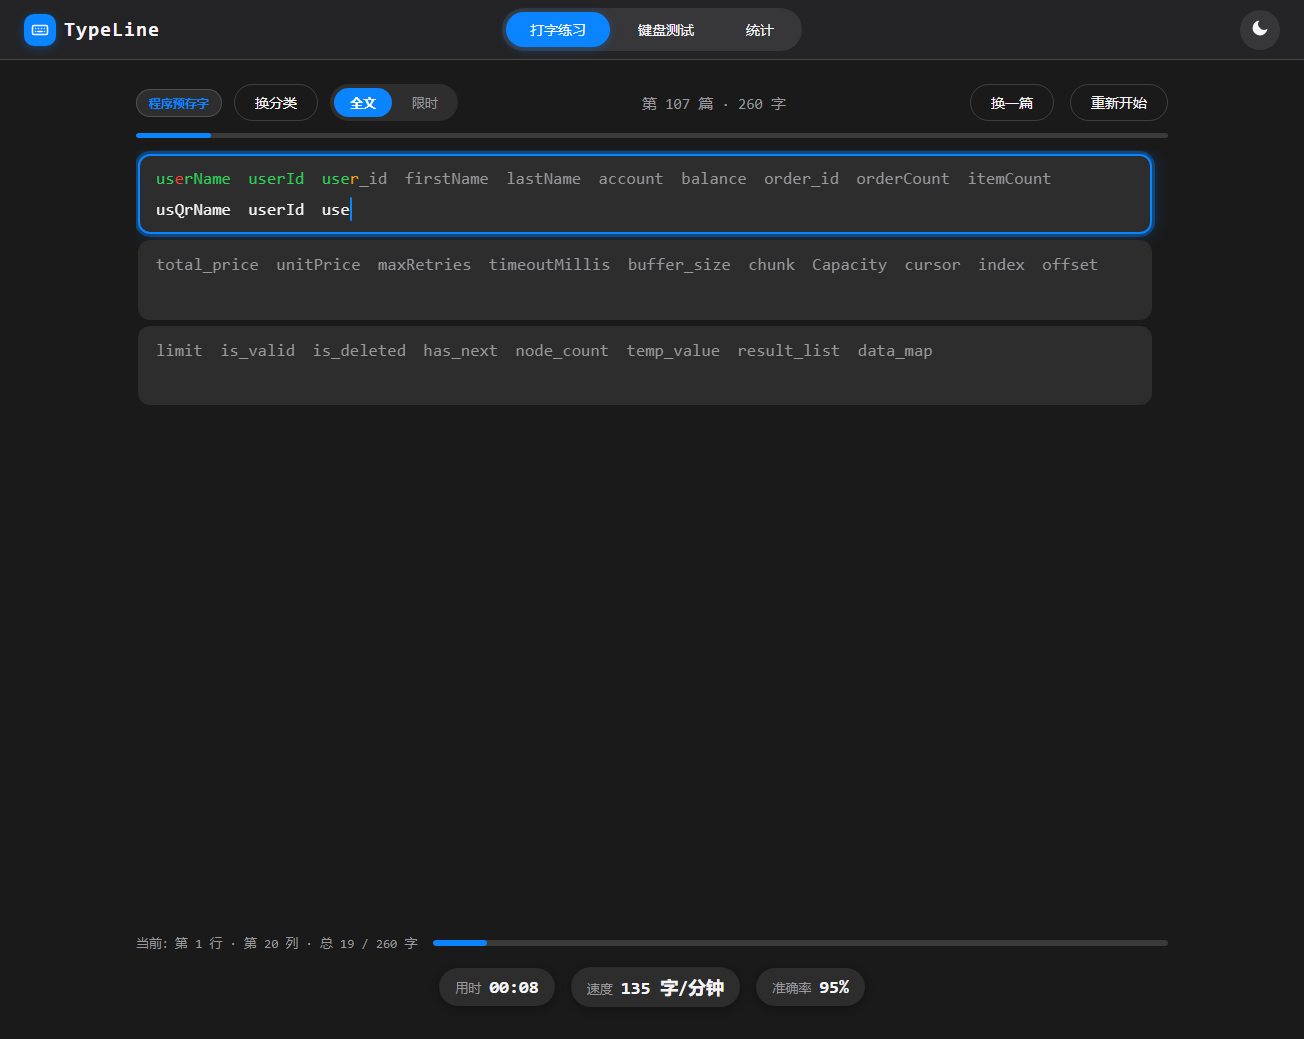
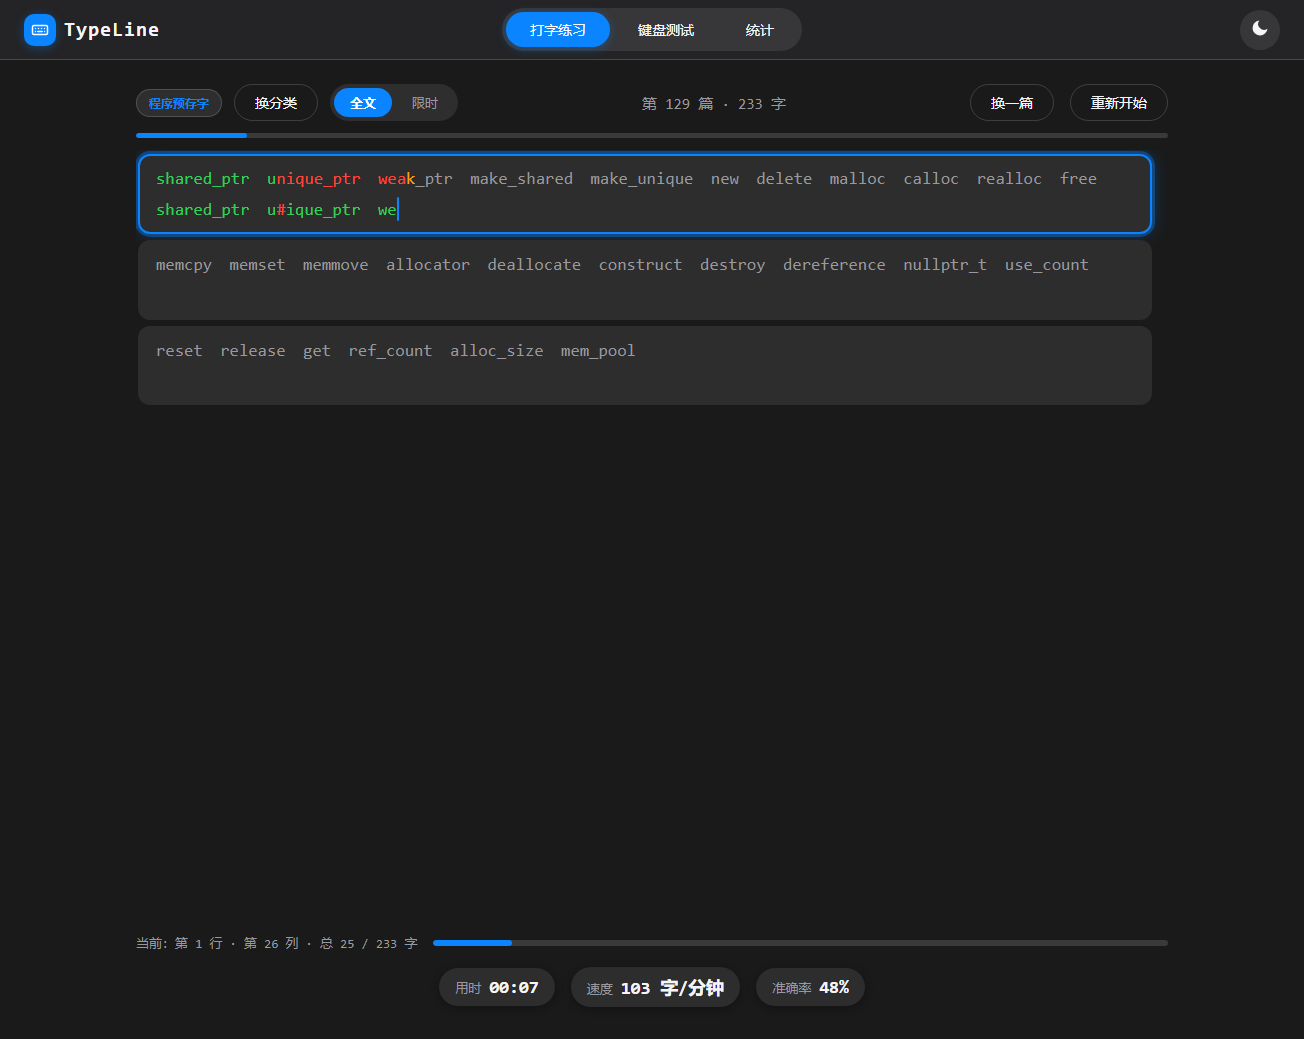
V3.2: code category input row source-position locked rendering (wrong chars red in-slot, no shift after typos)

diff --git a/assets/js/components/TypingPractice.js b/assets/js/components/TypingPractice.js
@@ -113,17 +113,19 @@
         <div class="row-input" :class="{ 'row-input-measured': profile.slot === 'measured' }">
           <span v-if="ri === activeRowIndex && !done" class="caret" aria-hidden="true"></span>
           <template v-if="inputSlice(row).length">
+            <!-- #38 原文位置锁定：槽 i 恒为原文槽（宽=charWidths[i] inline 绑定不变），
+                 词间 margin 仅原文词边界产生；正确字符绿色、错字红色槽内替换（不占额外宽度、不推挤后续槽） -->
             <template v-if="profile.slot === 'measured'">
               <span
                 v-for="(grp, gi) in groupRow(row)"
                 :key="'i' + gi"
                 :class="grp.word ? 'word' : 'sp-run'"
               ><span
-                  v-for="(it, ci) in inputGroup(grp)"
+                  v-for="(it, ci) in lockedGroup(grp)"
                   :key="ci"
                   class="in-char ch-m"
-                  :class="{ bad: !it.ok }"
-                  :style="slotStyle(grp.start + ci)"
+                  :class="it.ok ? 'good' : 'bad'"
+                  :style="slotStyle(it.start)"
                 >{{ it.ch }}</span></span>
             </template>
             <template v-else>
@@ -324,14 +326,33 @@
         return out;
       }
       function groupRow(row) { return wordGroups(row.start, row.end); }
-      /* 输入行词分组切片（measured）：仅取已提交部分；
-         start=全局索引（harness 逐词首字符对齐断言用） */
-      function inputGroup(grp) {
-        var ui = userInput.value;
+      /* #38 measured 输入行「原文位置锁定」模型（仅渲染层，引擎语义/错字本/统计零变化）：
+         已提交流→原文槽重建映射：流字符 === chars[target] → 覆盖该槽（显原文字符绿色）；
+         否则错字 → 不消耗槽，记在当前 target 槽红色槽内替换（同槽保留最近一次）；
+         多余错字不再把后续槽整体推挤，词间 margin 仍仅原文词边界产生 */
+      var lockedModel = computed(function () {
         var chars = textChars.value;
-        var end = Math.min(pos.value, grp.start + grp.chars.length);
+        var ui = userInput.value;
+        var red = {};
+        var t = 0;
+        for (var k = 0; k < ui.length; k++) {
+          if (t < chars.length && ui[k] === chars[t]) { t++; }
+          else { red[t] = ui[k]; }
+        }
+        return { red: red, cover: t };
+      });
+      /* 输入行词分组切片（measured，#38 锁定）：连续原文槽 [grp.start, min(grp.end, limit))；
+         start=全局索引（harness 逐词首字符对齐断言用） */
+      function lockedGroup(grp) {
+        var m = lockedModel.value;
+        var chars = textChars.value;
+        var limit = m.cover + (m.red[m.cover] !== undefined ? 1 : 0);
+        var end = Math.min(grp.start + grp.chars.length, limit);
         var out = [];
-        for (var i = grp.start; i < end; i++) out.push({ ch: ui[i], ok: ui[i] === chars[i], start: i });
+        for (var i = grp.start; i < end; i++) {
+          var r = m.red[i];
+          out.push({ ch: r !== undefined ? r : chars[i], ok: r === undefined, start: i });
+        }
         return out;
       }
 
@@ -727,9 +748,17 @@
           var k = inChars.length;
           var inLineRect = inLine.getBoundingClientRect();
           var compEl = inLine.querySelector('.composing');
-          var x = compEl
-            ? compEl.getBoundingClientRect().right                        // 组合期：拼音末端（任务 #20D）
-            : (k > 0 ? inChars[k - 1].getBoundingClientRect().right : inLineRect.left);
+          /* #38 measured：渲染槽自 row.start 连续，光标锚视觉覆盖位 cover（cover-1 槽右缘=cover 槽左缘），
+             错字槽内替换不推移光标；fixed 沿用末字符末端 */
+          var x;
+          if (compEl) {
+            x = compEl.getBoundingClientRect().right;                      // 组合期：拼音末端（任务 #20D）
+          } else if (profile.value.slot === 'measured') {
+            var cidx = lockedModel.value.cover - 1 - rows.value[activeRowIndex.value].start;
+            x = (cidx >= 0 && cidx < k) ? inChars[cidx].getBoundingClientRect().right : inLineRect.left;
+          } else {
+            x = k > 0 ? inChars[k - 1].getBoundingClientRect().right : inLineRect.left;
+          }
           inLineLeft = inLineRect.left - rowsRect.left + box.scrollLeft;  // 输入行左缘内容坐标
           left = x - rowsRect.left + box.scrollLeft;
           top = inLineRect.bottom - rowsRect.top + box.scrollTop;   // 紧贴输入行底边（任务 #20E：移除 +2）
@@ -932,7 +961,8 @@
           rows: rows.value.map(function (r) { return { start: r.start, end: r.end }; }),
           wordIds: wordIds.value,
           verses: verses.value ? verses.value.map(function (v) { return { start: v.start, len: v.chars.length }; }) : null,
-          charWidths: charWidths.value.length
+          charWidths: charWidths.value.length,
+          lockCover: lockedModel.value.cover
         };
       };
 
@@ -957,7 +987,7 @@
         mirrorRef: mirrorRef,
         inputSlice: inputSlice,
         groupRow: groupRow,
-        inputGroup: inputGroup,
+        lockedGroup: lockedGroup,
         slotStyle: slotStyle,
         overlayChar: overlayChar,
         profile: profile,

diff --git a/assets/css/style.css b/assets/css/style.css
@@ -387,6 +387,10 @@ button { font-family: inherit; }
 .in-char { display: inline-block; color: var(--text); }
 
 /* 输入行错字 = 默认文本色、无下划线、无背景（任务 #20C4）：.in-char.bad 不再单独着色 */
+/* #38 measured 输入行原文位置锁定：正确字符绿、错字槽内红（与 single 模式 charStates 同色语义）；
+   fixed 输入行（short/long）沿用 #20C4 默认色零变化 */
+.row-input-measured .in-char.good { color: var(--correct); }
+.row-input-measured .in-char.bad  { color: var(--wrong); }
 
 /* 输入行闪烁光标（任务 #20B）：绝对定位于已提交输入末尾，
    left 由 JS updateCaretAnchor() 与 IME 锚点同源设置（同一计算，视觉重合）；
@@ -425,7 +429,8 @@ button { font-family: inherit; }
 /* ---------- #35 渲染档案（catalog profile 三旋钮：lineBreak/slot/font） ----------
    fixed   = --ch-w 定宽槽双行（short/long，零变化）
    measured= mirror 逐字测宽槽双行（code）：原文/输入两行槽同宽 inline 绑定 charWidths，
-             以空格切 word 包裹（.word inline-block + margin-right 加宽，断行仅词间）
+             以空格切 word 包裹（.word inline-block + margin-right 加宽，断行仅词间）；
+             #38 输入行原文位置锁定：错字不消耗槽红色槽内替换、正确字符绿色，光标锚视觉覆盖位
    single  = 单行覆盖式（english/poetry）：错位置替换显示用户错字符并标红、
              当前位下划线光标态；hint 行内 overlay；IME 组合预览浮层锚当前字符 */
 .prof-measured .row-source,
